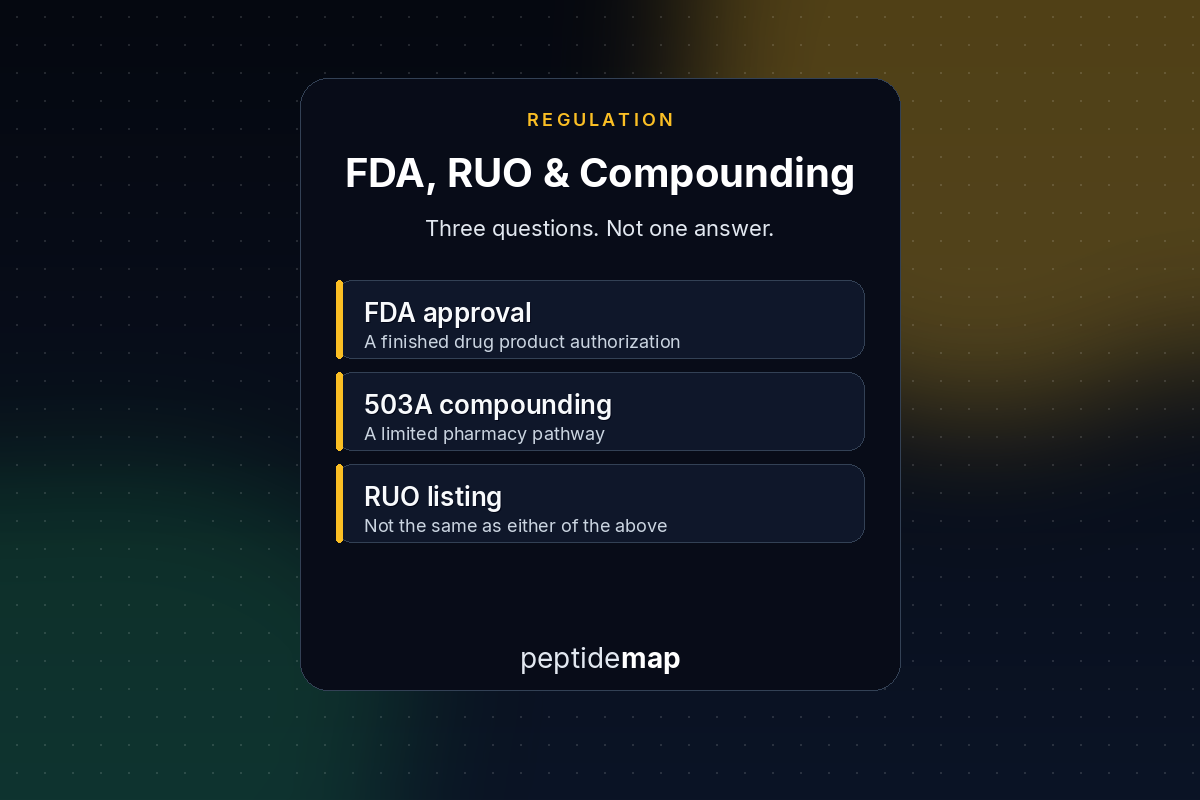
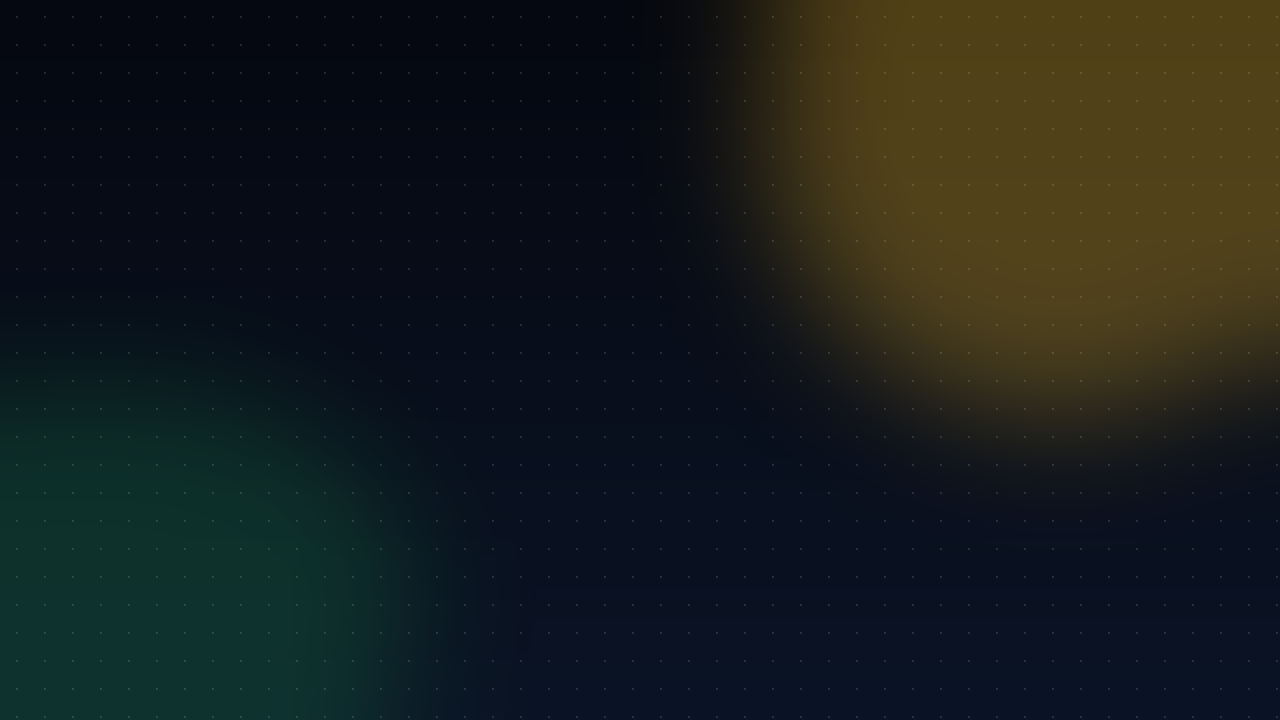
Update the peptide legality guide for the October 2026 interim access policy.
Record that the HHS/FDA interim peptide compounding policy is under OMB review and not issued, and sync the catalog FAQ, descriptions, and cover.

diff --git a/app/Content/EducationalContentPublisher.php b/app/Content/EducationalContentPublisher.php
@@ -319,7 +319,7 @@ class EducationalContentPublisher
                     ['What does “research use only” mean?', 'It is a seller’s claimed intended-use framing—typically not marketed as a consumer medicine. It does not prove quality, and it does not create FDA approval. See the legality companion for how FDA looks at intended use.'],
                     ['What is a COA, simply?', 'A Certificate of Analysis is a batch test report—ideally from an identifiable lab—covering identity/purity (and sometimes other attributes). Match lot numbers and verify when possible.'],
                     ['Can Peptidemap tell me which peptide to use for a goal?', 'No. Tools help compare vendors and documentation. Personal treatment decisions are medical/legal questions this guide does not answer.'],
-                    ['Where do I check if something can be compounded?', 'Not on this beginner page. Use the companion legality guide and current FDA compounding sources (and educational trackers such as PrescribedRX’s status page) because interim categories and advisory votes change.'],
+                    ['Where do I check if something can be compounded?', 'Not on this beginner page. Use the companion legality guide and current FDA compounding sources (and educational trackers) because interim categories and advisory votes change.'],
                     ['Why do vendors differ so much?', 'Synthesis quality, testing practices, storage, naming honesty, and regulatory posture all vary. Documentation literacy matters more than slogans.'],
                 ]),
             ],
@@ -331,16 +331,17 @@ class EducationalContentPublisher
                 'h1' => 'Are Research Peptides Legal? FDA, RUO & Compounding Explained',
                 'lede' => '“Is this peptide legal?” is usually the wrong shape of question. Under U.S. federal food-and-drug law, the better questions are: Is it an FDA-approved drug product? May a compounding pharmacy prepare it under section 503A or 503B? Is an online seller marketing it as a drug despite a research disclaimer? Do sport or workplace rules separately prohibit it? This guide is educational, not legal advice. Peptidemap is a vendor-comparison platform, not a pharmacy and not a law firm.',
                 'seo_title' => 'Are Research Peptides Legal? FDA & RUO Basics',
-                'seo_description' => 'Educational explainer: FDA approval vs 503A compounding vs RUO—why Category 2 removal and PCAC votes are not final compounding permission.',
+                'seo_description' => 'Educational explainer: FDA approval vs 503A compounding vs RUO, plus the October 2026 interim peptide compounding policy under OMB review (not issued).',
                 'og_title' => 'Are Research Peptides Legal? FDA & RUO Basics',
-                'og_description' => 'FDA approval ≠ compounding ≠ RUO. Why Category 2 removal and PCAC recommendations are not final permission—educational only.',
+                'og_description' => 'Educational explainer: FDA approval vs 503A compounding vs RUO, plus the October 2026 interim peptide compounding policy under OMB review (not issued).',
                 'tag' => 'Regulation',
-                'read_time' => '10 Min Read',
+                'read_time' => '13 Min Read',
                 'published_at' => '2026-09-29',
                 'faq' => self::faq($host.'/guides/peptide-legality-fda-ruo-compounding#faq', [
                     ['Are research peptides legal to buy online?', 'There is no single yes/no answer for every peptide, seller, claim, and jurisdiction. RUO listings exist; FDA still polices unapproved new drugs marketed for human use. This page does not advise purchases.'],
                     ['Does “removed from Category 2” mean pharmacies can compound it?', 'No. Removal from Category 2 is not placement on the 503A Bulks List and is not Category 1 permission.'],
                     ['Did PCAC “approve” BPC-157 or TB-500 in July 2026?', 'PCAC recommended inclusion on the 503A Bulks List for several peptides (per contemporaneous reporting). That is not FDA drug approval and not a final bulks-list rule.'],
+                    ['Did FDA approve compounded peptides in October 2026?', 'No. On 14 October 2026 HHS/FDA sent an “Interim Access Policy for Compounding Using Certain Peptides” to OMB for review. As of 19 October 2026 it is under OMB review, not yet issued, and its text is not public. A policy under review is not FDA drug approval and does not place any peptide on the 503A Bulks List.'],
                     ['Is compounding the same as FDA approval?', 'No. Compounding is a limited pharmacy pathway. Approval is a separate product authorization process.'],
                     ['Does WADA ban mean something is illegal for everyone?', 'No. WADA governs athletes in anti-doping programs. It is separate from FDA compounding and general consumer law—though the same substance can be constrained in multiple systems at once.'],
                     ['Where should I check status before believing a clinic ad?', 'FDA compounding / bulks / safety-risk pages first; then dated educational trackers; then counsel. On-site Peptidemap posts are context only—cross-check against primary FDA sources when making decisions.'],

diff --git a/resources/content/educational/images/generate_covers.py b/resources/content/educational/images/generate_covers.py
@@ -9,7 +9,7 @@ from pathlib import Path
 
 from PIL import Image, ImageDraw, ImageFilter, ImageFont
 
-W, H = 1200, 800
+W, H = 1280, 720
 FONT_DIR = Path("/usr/share/fonts/truetype/macos")
 ROOT = Path(__file__).resolve().parents[4]
 OUT_DIRS = [
@@ -130,6 +130,14 @@ def row(draw, box, label, detail, accent):
     draw.text((x, box[1] + 50), detail, font=detail_font, fill=(203, 213, 225, 255))
 
 
+def abstract_cover(filename, accent):
+    """Corner glows and a dot grid only. No type, wordmark, or pictograms."""
+    img = canvas(accent)
+    for directory in OUT_DIRS:
+        directory.mkdir(parents=True, exist_ok=True)
+        img.convert("RGB").save(directory / filename, "PNG", optimize=True)
+
+
 def cover(filename, eyebrow, title, subtitle, accent, rows):
     img = canvas(accent)
     draw = ImageDraw.Draw(img)
@@ -196,18 +204,7 @@ def main():
             ("03  ·  COA", "Match the lot, then verify the lab"),
         ],
     )
-    cover(
-        "peptide-legality-fda-ruo-compounding.png",
-        "REGULATION",
-        "FDA, RUO & Compounding",
-        "Three questions. Not one answer.",
-        amber,
-        [
-            ("FDA approval", "A finished drug product authorization"),
-            ("503A compounding", "A limited pharmacy pathway"),
-            ("RUO listing", "Not the same as either of the above"),
-        ],
-    )
+    abstract_cover("peptide-legality-fda-ruo-compounding.png", amber)
     cover(
         "fda-peptide-reclassification-2026.png",
         "FDA 2026",

diff --git a/tests/Feature/EducationalContentTest.php b/tests/Feature/EducationalContentTest.php
@@ -55,7 +55,7 @@ class EducationalContentTest extends TestCase
         $legality = $this->get('/guides/peptide-legality-fda-ruo-compounding');
         $legality->assertOk();
         $legality->assertSee('Are Research Peptides Legal? FDA &amp; RUO Basics', false);
-        $legality->assertSee('Last verified against FDA: 2026-10-03', false);
+        $legality->assertSee('Last verified against FDA: 2026-10-19', false);
         $legality->assertSee('https://peptidemap.com/guides/peptide-legality-fda-ruo-compounding', false);
         $legality->assertDontSee('formblends', false);
         $legality->assertDontSee('FormBlends', false);
@@ -437,7 +437,7 @@ class EducationalContentTest extends TestCase
         $this->assertStringContainsString('Peptide Partners', $legality->content);
         $this->assertStringContainsString('for research use only', $legality->content);
         $this->assertStringContainsString('not permission to compound', $legality->content);
-        $this->assertStringContainsString('Last verified against FDA: 2026-10-03', $legality->content);
+        $this->assertStringContainsString('Last verified against FDA: 2026-10-19', $legality->content);
         $this->assertStringContainsString('not, by itself, a license to compound', $legality->content);
         $this->assertStringNotContainsString('formblends', strtolower($legality->content));
         $this->assertStringNotContainsString('Note for Meta Optimizer', $legality->content);

diff --git a/database/migrations/2026_10_19_120000_refresh_peptide_legality_interim_access.php b/database/migrations/2026_10_19_120000_refresh_peptide_legality_interim_access.php
@@ -1,0 +1,26 @@
+<?php
+
+use App\Content\EducationalContentPublisher;
+use Illuminate\Database\Migrations\Migration;
+
+return new class extends Migration
+{
+    /**
+     * Refresh the peptide-legality guide for the October 2026 interim access
+     * policy, and the beginner guide FAQ that points at it.
+     *
+     * Production pick-up is `php artisan migrate` after deploy.
+     * Sync upserts by slug, so a second migrate does not duplicate rows
+     * and does not delete existing content.
+     * Rolling back leaves the published rows in place.
+     */
+    public function up(): void
+    {
+        EducationalContentPublisher::sync();
+    }
+
+    public function down(): void
+    {
+        // Existing guides stay published. The previous wording is not restored.
+    }
+};

diff --git a/resources/content/educational/peptide-legality-fda-ruo-compounding.md b/resources/content/educational/peptide-legality-fda-ruo-compounding.md
@@ -1,4 +1,4 @@
-**Last verified against FDA: 2026-10-03.** Federal compounding lists, advisory votes, and enforcement priorities change. This guide is educational pathway literacy, not legal advice.
+**Last verified against FDA: 2026-10-19.** Federal compounding lists, advisory votes, and enforcement priorities change. This guide is educational pathway literacy, not legal advice.
 
 ## The short version
 
@@ -7,7 +7,47 @@
 3. While that Bulks List is developed, FDA has used **interim categories**. **Category 1** is the interim bucket associated with practical enforcement discretion for compounding evaluation. **Category 2** flags significant safety-risk concerns (do-not-compound posture under the interim policy framing).
 4. **Removal from Category 2 is not permission to compound.** It does not place a substance on the Bulks List and does not equal Category 1.
 5. A **Pharmacy Compounding Advisory Committee (PCAC) recommendation** is **advisory**. It is **not** a final FDA rule and does **not** by itself authorize compounding.
-6. As of late summer 2026 educational trackers summarizing FDA action, peptides reviewed at the **July 2026 PCAC** meeting (including BPC-157 and TB-500) had been **recommended by the committee for 503A Bulks List inclusion** but **had not been added by final FDA rulemaking**. Treat any “now legal to compound” claim with extreme skepticism unless it cites a final listing.
+6. As of **19 October 2026**, peptides reviewed at the **July 2026 PCAC** meeting (including BPC-157 and TB-500) had been **recommended by the committee for 503A Bulks List inclusion** but **had not been added by FDA rulemaking**. The codified 503A Bulks List does not name them, and no proposed rule to add them has appeared in the Federal Register. Treat any “now legal to compound” claim with extreme skepticism unless it cites a final listing.
+7. On **14 October 2026**, HHS/FDA sent an **“Interim Access Policy for Compounding Using Certain Peptides”** to the White House Office of Management and Budget (OMB) for review. As of 19 October 2026 it is **under OMB review, not yet issued, and its text is not public**. It is not FDA approval of any peptide. See the dated update below.
+
+## Update, October 2026: proposed interim access policy (pending, not in force)
+
+**As of 19 October 2026.** This section records a pending federal action. It does not change anything in force today, and it will be revised when the record changes.
+
+### What the public record shows
+
+- **OMB review listing.** The Office of Information and Regulatory Affairs (OIRA) at OMB lists a pending EO 12866 regulatory review with these fields: **Title:** “Interim Access Policy for Compounding Using Certain Peptides.” **RIN:** 0910-ZD94. **Agency:** HHS / FDA. **Stage:** Notice. **Received date:** 14 October 2026. **Legal deadline:** None. **Economically significant:** No. **International impacts:** No. The listing carries no description of the policy, no list of covered peptides, and no effective date.
+- **Meeting on the log.** The EO 12866 meetings search on reginfo.gov returns one meeting for RIN 0910-ZD94: **21 October 2026, 3:00 p.m.** (time as listed; reginfo shows no time zone), status **Scheduled**, Notice stage. The meeting record names the requestor as the American Academy of Peptide Medicine. A meeting with OMB is part of the review process. It is not a decision, and a scheduled meeting is not a record that it took place.
+- **No public text.** The draft has not been published by OMB, FDA, or HHS. As of 19 October 2026 no Federal Register document on it has appeared, and no FDA or HHS announcement of its contents was found.
+
+### What it is not
+
+- **Not issued and not final.** A document under OMB review has no effect until the agency issues it.
+- **Not an FDA approval.** No peptide becomes an FDA-approved drug through an interim compounding policy.
+- **Not a 503A Bulks List listing.** Adding a substance to the Bulks List requires notice-and-comment rulemaking.
+- **Not a change to RUO status.** Nothing on the public record says the policy addresses research-use-only sales.
+
+### What has been reported, and by whom
+
+- **Washington Post, 7 October 2026.** Rachel Roubein reported, citing two people familiar with the matter who spoke on condition of anonymity, that the administration was crafting plans to allow the temporary sale of certain previously restricted peptides through some compounding pharmacies while regulations are developed. The Post reported that the plan had not been announced, that timing was unclear and it could still change, and that it was not clear which peptides would be covered. HHS did not comment.
+- **Holland & Knight, 16 October 2026.** In a client alert, the law firm Holland & Knight (Sarah Starling Crossan and Shalyn Watkins) wrote that “the most likely approach of the policy is interim enforcement discretion,” such as moving the peptides into Category 1 of FDA’s interim bulks policy. In the firm’s reading, that approach “would not approve any product, would not cover research-use-only, supplement or 503B outsourcing facility channels, and could be withdrawn without formal rulemaking,” and covered peptides “would remain unapproved drugs.” The firm also wrote that, absent publication of an interim policy, none of FDA’s procedural steps “yet authorizes the compounding of these peptides.” This is one law firm’s analysis of an unpublished document, not FDA’s description of it.
+
+The contents of the policy will not be known until it is issued. Until then, any claim about which peptides it covers, which routes, or what conditions apply is ahead of the public record.
+
+### Pending vs in force (as of 19 October 2026)
+
+| Item | Current status (law or FDA policy) | Source |
+| --- | --- | --- |
+| 503A Bulks List (21 CFR 216.23(a)) | **In force.** Names six substances. None of the July 2026 PCAC peptides is on it. | eCFR, 21 CFR 216.23 |
+| 503A interim categories | **In force.** FDA’s 503A categories list, updated 14 May 2026, does not place BPC-157, TB-500, KPV, MOTS-c, Epitalon, or Semax in Category 1 or Category 2. They appear in FDA’s withdrawn-nomination table instead. Off Category 2 is not permission to compound. | FDA 503A categories list (updated 14 May 2026); FDA safety-risk page |
+| FDA drug approval | **In force.** None of these peptides is an FDA-approved drug. Neither a PCAC vote nor an interim compounding policy is an approval. | Drugs@FDA; BPC-157 and TB-500 sections below |
+| RUO labeling | **In force.** “Research use only” wording does not control intended use under 21 CFR 201.128. FDA’s August 2026 warning letters treated RUO-labeled peptides as unapproved new drugs where website evidence showed human-use intent. | 21 CFR 201.128; FDA warning letter, 24 August 2026 |
+| July 2026 PCAC recommendations | **Advisory only.** FDA has not publicly announced whether it accepts them. No proposed rule has been published. | Harvard Chan Q&A, 1 October 2026; Federal Register |
+| Interim Access Policy (RIN 0910-ZD94) | **Proposed and pending.** Under OMB review since 14 October 2026. Not yet issued. Text not public. | reginfo.gov, OIRA listing |
+| EO 12866 meeting on RIN 0910-ZD94 | **Scheduled** for 21 October 2026. | reginfo.gov, EO 12866 meetings search |
+| Next PCAC meeting (LL-37, GHK-Cu, dihexa acetate, melanotan II, PEG-MGF) | **Scheduled discussion only,** before the end of February 2027. Date not yet set. | FDA PCAC meeting page |
+
+**What would change the in-force column:** FDA issuing the interim policy (and its actual terms), FDA moving a specific substance into an interim category, or a final rule adding a substance to 21 CFR 216.23. A news report, a law-firm alert, or an OMB listing does not.
 
 ## Three lanes: approved, compounded, research-labeled
 
@@ -38,6 +78,8 @@ While formal bulks lists are developed, FDA has sorted nominated substances into
 - **Category 3** — nominations lacking adequate supporting information (where that category is used)
 - **Withdrawn nominations** — a separate posture: nominators withdrew a nomination. **Being “withdrawn” / off Category 2 is not permission**
 
+Two details from FDA’s 503A pages (503A page content current as of 14 May 2026) matter for the October 2026 news. First, FDA’s guidance “does not intend to place bulk drug substances nominated on or after January 7, 2025, into these categories.” Second, FDA’s 503A categories list, updated 14 May 2026, shows GHK-Cu (except for injectable routes of administration) added back to Category 1 after a nominator clarified its withdrawal. That is an interim enforcement-discretion posture with conditions, not FDA approval and not a Bulks List listing. Injectable GHK-Cu remains in the withdrawn-nomination table.
+
 FDA also publishes a page on bulk substances that may present significant safety risks, including substances still listed under Category 2 and a table of substances whose nominations were withdrawn (with narrative safety concerns retained for context)—including entries such as **BPC-157** and **thymosin beta-4 fragment (LKKTETQ), also known as TB-500**.
 
 ## The distinction almost everyone gets wrong
@@ -62,9 +104,9 @@ Critical literacy points:
 - A favorable vote is **not** marketing approval as a drug
 - A favorable vote is **not**, by itself, a green light to compound
 
-**Status note (Harvard Chan, 1 October 2026).** Harvard T.H. Chan School of Public Health reported that FDA “has not yet announced if it will accept or reject the committee’s recommendation” from the July Pharmacy Compounding Advisory Committee vote on allowing compounders to manufacture and sell several synthetic peptides. That sentence is a status report, not a legal conclusion and not permission to compound. A PCAC vote is still advisory. It is not a final FDA rule, not FDA drug approval, and not placement on the 503A Bulks List. Removal from Category 2 remains not permission to compound. Source: Karen Feldscher, “Peptides are all over social media and the news. Here’s what to know about them,” Harvard T.H. Chan School of Public Health, 1 October 2026, https://hsph.harvard.edu/news/peptides-are-all-over-social-media-and-the-news-heres-what-to-know-about-them/
+**Status note (Harvard Chan, 1 October 2026; rechecked 19 October 2026).** In a Q&A published by Harvard T.H. Chan School of Public Health, Professor S. Bryn Austin said FDA “has not yet announced if it will accept or reject the committee’s recommendation” from the July Pharmacy Compounding Advisory Committee vote on allowing compounders to manufacture and sell several synthetic peptides. As of 19 October 2026, no FDA announcement accepting or rejecting the recommendations was found, and no proposed rule to add any of these peptides to the Bulks List has appeared in the Federal Register. The interim access policy now under OMB review (see the October 2026 update above) is a separate, unpublished document, not an FDA response that has been issued. Austin’s statement is a status report, not a legal conclusion and not permission to compound. A PCAC vote is still advisory. It is not a final FDA rule, not FDA drug approval, and not placement on the 503A Bulks List. Removal from Category 2 remains not permission to compound. Source: Karen Feldscher, “Peptides are all over social media and the news. Here’s what to know about them,” Harvard T.H. Chan School of Public Health, 1 October 2026, https://hsph.harvard.edu/news/peptides-are-all-over-social-media-and-the-news-heres-what-to-know-about-them/
 
-**Next PCAC discussion (FDA page, read 3 October 2026).** FDA’s Pharmacy Compounding Advisory Committee meeting page states that FDA “will host an advisory committee meeting before the end of February 2027.” The agenda on that page lists these bulk drug substances for discussion for possible inclusion on the 503A Bulks List: cathelicidin (LL-37), GHK-Cu, dihexa acetate, melanotan II, and mechano growth factor, pegylated (PEG-MGF). The same page says advisory-committee recommendations are non-binding. A scheduled discussion is not a Bulks List listing and is not permission to compound. The page does not list non-pegylated MGF as a separate substance, and it says a Federal Register notice and public-comment docket are still forthcoming. Source: https://www.fda.gov/advisory-committees/pharmacy-compounding-advisory-committee/meeting-pharmacy-compounding-advisory-committee
+**Next PCAC discussion (FDA page, read 3 October 2026; unchanged when rechecked 19 October 2026).** FDA’s Pharmacy Compounding Advisory Committee meeting page states that FDA “will host an advisory committee meeting before the end of February 2027.” The agenda on that page lists these bulk drug substances for discussion for possible inclusion on the 503A Bulks List: cathelicidin (LL-37), GHK-Cu, dihexa acetate, melanotan II, and mechano growth factor, pegylated (PEG-MGF). The same page says advisory-committee recommendations are non-binding. A scheduled discussion is not a Bulks List listing and is not permission to compound. The page does not list non-pegylated MGF as a separate substance, and it says a Federal Register notice and public-comment docket are still forthcoming. Source: https://www.fda.gov/advisory-committees/pharmacy-compounding-advisory-committee/meeting-pharmacy-compounding-advisory-committee
 
 Until a substance actually appears on the applicable final list (or otherwise qualifies under the statute), educational status trackers have summarized many of these peptides as **not currently compoundable** under 503A—regardless of supplier or clinic marketing.
 
@@ -93,7 +135,7 @@ Use these as **illustrations of pathway confusion**, not as a complete legality 
 
 It is not a green light, a ban list for personal possession in every jurisdiction, or legal advice about buying/selling. It shows why **RUO websites**, **compounding clinics**, and **approved drugs** are different conversations.
 
-For evidence (not law) on BPC-157 vs TB-500, see [what the evidence actually shows](/blog/bpc-157-vs-tb-500-evidence). Vendor and price tools, which are not a legal-status page, live at [BPC-157 vs TB-500 compare](/compare/bpc-157-vs-tb-500).
+For evidence (not law) on BPC-157 vs TB-500, see [what the evidence actually shows](/blog/bpc-157-vs-tb-500-evidence). A side-by-side comparison lives at [BPC-157 vs TB-500 compare](/compare/bpc-157-vs-tb-500).
 
 ## What “research use only” means—and does not
 
@@ -124,7 +166,7 @@ A blend containing a prohibited substance is still a sport risk. Check the curre
 ## Practical literacy checklist (not legal advice)
 
 1. Is there an **FDA-approved finished drug** for this exact product/use?
-2. If compounded: does it qualify under **503A/503B** pathways **today** (monograph, approved-drug component, or final bulks listing / Category 1 interim posture—not vibes)?
+2. If compounded: does it qualify under **503A/503B** pathways **today** (monograph, approved-drug component, or final bulks listing—not vibes)? Category 1 is interim enforcement discretion, not a qualifying pathway or a listing.
 3. Was a headline about **Category 2 removal** or a **PCAC vote** being treated as if it were a final rule?
 4. Is an online seller making **drug claims** while waving an RUO disclaimer?
 5. Do **sport / DoD / employer** rules separately restrict the substance?
@@ -143,6 +185,10 @@ No. Removal from Category 2 is not placement on the 503A Bulks List and is not C
 ### Did PCAC “approve” BPC-157 or TB-500 in July 2026?
 
 PCAC recommended inclusion on the 503A Bulks List for several peptides (per contemporaneous reporting). That is not FDA drug approval and not a final bulks-list rule.
+
+### Did FDA approve compounded peptides in October 2026?
+
+No. On 14 October 2026 HHS/FDA sent an “Interim Access Policy for Compounding Using Certain Peptides” to OMB for review. As of 19 October 2026 it is under OMB review, not yet issued, and its text is not public. A policy under review is not FDA drug approval and does not place any peptide on the 503A Bulks List.
 
 ### Is compounding the same as FDA approval?
 
@@ -166,15 +212,28 @@ Primary / regulatory:
 4. U.S. FDA warning letter, Peptide Partners LLC (MARCS-CMS 735063), 24 August 2026. Footnote: “for research use only” and “not for human or veterinary use” labeling did not control intended use where website evidence showed human-drug intent: https://www.fda.gov/inspections-compliance-enforcement-and-criminal-investigations/warning-letters/peptide-partners-llc-735063-08242026
 5. WADA Prohibited List 2026 (PDF): https://www.wada-ama.org/sites/default/files/2025-09/2026list_en_final_clean_september_2025.pdf
 6. DoD OPSS — BPC-157 advisory: https://www.opss.org/article/bpc-157-prohibited-peptide-and-unapproved-drug-found-health-and-wellness-products
-7. BMJ reporting on July 2026 PCAC peptide recommendations: https://www.bmj.com/content/394/bmj-2026-100422
+7. Leslie Liang, “Peptides: US advisory committee recommends six for FDA ‘compounding list’,” BMJ 2026;394:e100422, 28 July 2026 (reporting): https://www.bmj.com/content/394/bmj-2026-100422
 
 7a. Harvard T.H. Chan School of Public Health (Karen Feldscher), 1 October 2026, “Peptides are all over social media and the news. Here’s what to know about them.” Reports that FDA had not yet announced whether it will accept or reject the July PCAC recommendation. Does not list the next-meeting substance slate and does not discuss the 24 August 2026 warning letters: https://hsph.harvard.edu/news/peptides-are-all-over-social-media-and-the-news-heres-what-to-know-about-them/
 
 7b. U.S. FDA, Meeting of the Pharmacy Compounding Advisory Committee (page read 3 October 2026). States FDA will host a meeting before the end of February 2027 and lists cathelicidin (LL-37), GHK-Cu, dihexa acetate, melanotan II, and mechano growth factor, pegylated (PEG-MGF). Does not list non-pegylated MGF separately: https://www.fda.gov/advisory-committees/pharmacy-compounding-advisory-committee/meeting-pharmacy-compounding-advisory-committee
 
-Educational structure reference (model for Category 2 ≠ permission / PCAC ≠ rule; verify dates):
+October 2026 interim access policy (pending, checked 19 October 2026):
 
-8. PrescribedRX — Peptides and US Compounding Law: Current Status Tracker: https://prescribedrx.com/peptides/
+7c. Office of Information and Regulatory Affairs (OMB), Pending EO 12866 Regulatory Review, “Interim Access Policy for Compounding Using Certain Peptides,” RIN 0910-ZD94, HHS/FDA, Stage: Notice, received 14 October 2026 (read 19 October 2026): https://www.reginfo.gov/public/do/eoDetails?rrid=1568964
+
+7d. reginfo.gov, EO 12866 meeting record for RIN 0910-ZD94: 21 October 2026, 3:00 p.m., Notice stage, requestor American Academy of Peptide Medicine (read 19 October 2026): https://www.reginfo.gov/public/do/viewEO12866Meeting?meetingId=1586023&viewRule=true
+
+7e. Holland & Knight (Sarah Starling Crossan, Shalyn Watkins), “Peptides at a Crossroads: What Wellness Providers Need to Know About HHS and FDA Actions,” 16 October 2026. One law firm’s analysis: https://www.hklaw.com/en/insights/publications/2026/10/peptides-at-a-crossroads-what-wellness-providers-need-to-know
+
+7f. Rachel Roubein, “Trump administration paving way for temporary sale of some unapproved peptides,” The Washington Post, 7 October 2026. Anonymous-source report: https://www.washingtonpost.com/health/2026/10/07/trump-administration-paving-way-temporary-sale-some-unapproved-peptides/
+
+7g. U.S. FDA, Bulk Drug Substances Nominated for Use in Compounding Under Section 503A (categories list, updated 14 May 2026): https://www.fda.gov/media/94155/download
+
+7h. U.S. FDA, Bulk Drug Substances Used in Compounding Under Section 503A of the FD&C Act (content current as of 14 May 2026): https://www.fda.gov/drugs/human-drug-compounding/bulk-drug-substances-used-compounding-under-section-503a-fdc-act
+
+7i. 21 CFR 216.23, Bulk drug substances that can be used to compound drug products in accordance with section 503A (read 19 October 2026): https://www.ecfr.gov/current/title-21/chapter-I/subchapter-C/part-216/subpart-B/section-216.23
+
 
 ## Disclaimer
 

diff --git a/resources/content/educational/beginners-guide-to-research-peptides.md b/resources/content/educational/beginners-guide-to-research-peptides.md
@@ -139,7 +139,7 @@ No. Tools help compare vendors and documentation. Personal treatment decisions a
 
 ### Where do I check if something can be compounded?
 
-Not on this beginner page. Use the companion legality guide and current FDA compounding sources (and educational trackers such as PrescribedRX’s status page) because interim categories and advisory votes change.
+Not on this beginner page. Use the companion legality guide and current FDA compounding sources (and educational trackers) because interim categories and advisory votes change.
 
 ### Why do vendors differ so much?
 
